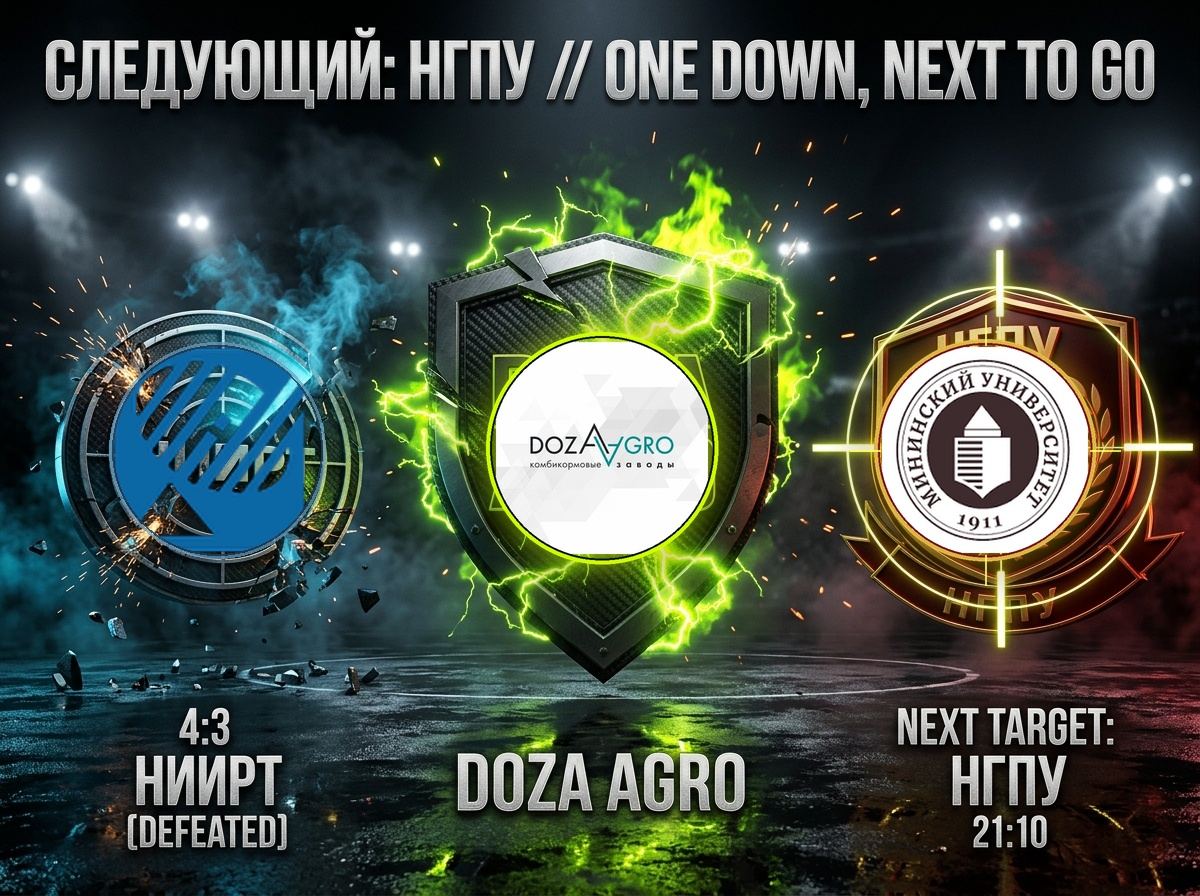
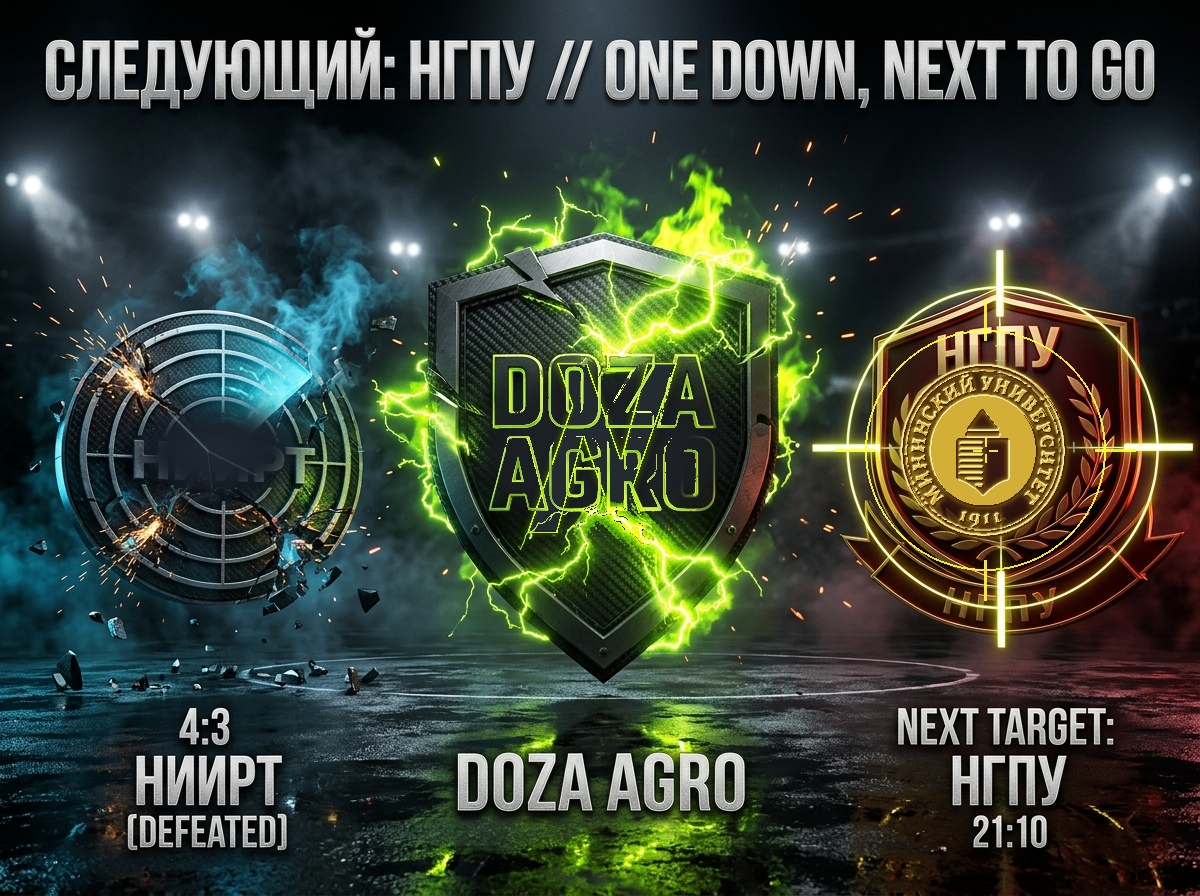
smm: replace flat circle stickers with seamless 3D integrated metallic emblems

Changed region(s): [[0.37, 0.3438, 0.6167, 0.6562], [0.7092, 0.3438, 0.925, 0.6562], [0.0925, 0.375, 0.2775, 0.625]]

diff --git a/scripts/integrate_authentic_3d_shields.py b/scripts/integrate_authentic_3d_shields.py
@@ -1,0 +1,156 @@
+import os
+from PIL import Image, ImageDraw, ImageFilter, ImageEnhance
+import numpy as np
+
+from render_3d_emblems import render_doza_monogram, render_nniirt_3d, render_ngpu_3d
+
+def run():
+    poster_path = "C:/Users/KateLis/.gemini/antigravity/brain/fa191b2b-4fe1-4d7e-8eb5-33906813e88f/doza_agro_progression_poster_1793554101241.jpg"
+    base = Image.open(poster_path).convert("RGBA")
+    W, H = base.size
+    print(f"Base poster: {W}x{H}")
+
+    # =========================================================================
+    # 1. CENTER SHIELD: DOZA AGRO (Integrated 3D Monogram)
+    # Center: (602, 448)
+    # =========================================================================
+    doza_cx, doza_cy = 602, 448
+    
+    # First: Clean out the generic outline text "DOZA AGRO" from the carbon shield
+    # We do this by sampling the carbon fiber texture surrounding it
+    carbon_patch = Image.new("RGBA", (280, 200), (20, 25, 30, 255))
+    # Fill carbon_patch with a subtle radial gradient matching the shield body
+    cp_draw = ImageDraw.Draw(carbon_patch)
+    for r in range(140, 0, -2):
+        shade = int(22 + (140 - r) * 0.1)
+        cp_draw.ellipse((140 - r, 100 - int(r*0.7), 140 + r, 100 + int(r*0.7)), fill=(shade, shade + 4, shade + 8, 255))
+        
+    # Soft mask for carbon patch so it blends into the shield without hard seams
+    patch_mask = Image.new("L", (280, 200), 0)
+    pm_draw = ImageDraw.Draw(patch_mask)
+    pm_draw.ellipse((20, 15, 260, 185), fill=255)
+    patch_mask = patch_mask.filter(ImageFilter.GaussianBlur(15))
+    
+    # Save original lightning region to re-apply in front
+    # Bright green lightning pixels around center:
+    base_arr = np.array(base)
+    # Green lightning has high G, low B relative to G
+    green_mask = (base_arr[:,:,1] > 140) & (base_arr[:,:,1] > base_arr[:,:,0] + 30) & (base_arr[:,:,1] > base_arr[:,:,2] + 40)
+    lightning_alpha = np.zeros((H, W), dtype=np.uint8)
+    lightning_alpha[green_mask] = 255
+    lightning_layer = Image.new("RGBA", (W, H), (0, 0, 0, 0))
+    lightning_layer.paste(base, (0, 0), Image.fromarray(lightning_alpha))
+    
+    # Apply soft carbon patch to cleanly erase the generic text
+    base.paste(carbon_patch, (doza_cx - 140, doza_cy - 100), patch_mask)
+    
+    # Render the authentic 3D metallic monogram (size 220)
+    mono_size = 230
+    doza_3d = render_doza_monogram(size=mono_size)
+    
+    # Subtle drop shadow behind monogram onto carbon fiber
+    shadow = Image.new("RGBA", (mono_size + 20, mono_size + 20), (0, 0, 0, 0))
+    s_draw = ImageDraw.Draw(shadow)
+    mono_alpha = doza_3d.split()[-1].filter(ImageFilter.GaussianBlur(8))
+    shadow.paste((0, 0, 0, 180), (10, 14), mono_alpha)
+    
+    base.alpha_composite(shadow, (doza_cx - mono_size//2 - 10, doza_cy - mono_size//2 - 10))
+    base.alpha_composite(doza_3d, (doza_cx - mono_size//2, doza_cy - mono_size//2))
+    
+    # Re-composite the electric lightning arcing in front of the monogram!
+    base.alpha_composite(lightning_layer, (0, 0))
+
+    # =========================================================================
+    # 2. LEFT SHIELD: НИИРТ (Integrated 3D Radar Wave Emblem)
+    # Center: (217, 450)
+    # =========================================================================
+    niirt_cx, niirt_cy = 217, 450
+    
+    # Clean the generic "НИИРТ" text from the center of the radar dish
+    dish_patch = Image.new("RGBA", (190, 110), (18, 30, 42, 255))
+    dp_draw = ImageDraw.Draw(dish_patch)
+    for r in range(95, 0, -2):
+        shade = int(18 + (95 - r) * 0.15)
+        dp_draw.ellipse((95 - r, 55 - int(r*0.6), 95 + r, 55 + int(r*0.6)), fill=(shade, shade + 8, shade + 18, 255))
+        
+    dish_mask = Image.new("L", (190, 110), 0)
+    dm_draw = ImageDraw.Draw(dish_mask)
+    dm_draw.ellipse((15, 10, 175, 100), fill=255)
+    dish_mask = dish_mask.filter(ImageFilter.GaussianBlur(12))
+    
+    base.paste(dish_patch, (niirt_cx - 95, niirt_cy - 55), dish_mask)
+    
+    # Render authentic 3D NNIIRT radar symbol (size 170)
+    niirt_size = 175
+    niirt_3d = render_nniirt_3d(size=niirt_size)
+    
+    # Overlay onto metallic radar dish
+    base.alpha_composite(niirt_3d, (niirt_cx - niirt_size//2, niirt_cy - niirt_size//2))
+    
+    # Add subtle crack overlay across NIIRT to preserve the battle-damaged defeat story (4:3)
+    crack_overlay = Image.new("RGBA", (W, H), (0, 0, 0, 0))
+    co_draw = ImageDraw.Draw(crack_overlay)
+    # Fine electric/fracture lines
+    co_draw.line([(niirt_cx - 50, niirt_cy - 40), (niirt_cx - 10, niirt_cy), (niirt_cx + 40, niirt_cy + 25)], fill=(200, 240, 255, 160), width=2)
+    co_draw.line([(niirt_cx - 10, niirt_cy), (niirt_cx - 5, niirt_cy + 45)], fill=(200, 240, 255, 140), width=1)
+    crack_overlay = crack_overlay.filter(ImageFilter.GaussianBlur(1))
+    base = Image.alpha_composite(base, crack_overlay)
+
+    # =========================================================================
+    # 3. RIGHT SHIELD: НГПУ (Integrated 3D Burnished Gold Seal)
+    # Center: (985, 450)
+    # =========================================================================
+    ngpu_cx, ngpu_cy = 985, 450
+    
+    # Clean the generic torch/laurel from center of bronze shield
+    bronze_patch = Image.new("RGBA", (210, 210), (35, 15, 15, 255))
+    bp_draw = ImageDraw.Draw(bronze_patch)
+    for r in range(105, 0, -2):
+        s_r = int(35 + (105 - r) * 0.25)
+        s_g = int(15 + (105 - r) * 0.1)
+        s_b = int(12 + (105 - r) * 0.08)
+        bp_draw.ellipse((105 - r, 105 - r, 105 + r, 105 + r), fill=(s_r, s_g, s_b, 255))
+        
+    b_mask = Image.new("L", (210, 210), 0)
+    bm_draw = ImageDraw.Draw(b_mask)
+    bm_draw.ellipse((20, 20, 190, 190), fill=255)
+    b_mask = b_mask.filter(ImageFilter.GaussianBlur(15))
+    
+    base.paste(bronze_patch, (ngpu_cx - 105, ngpu_cy - 105), b_mask)
+    
+    # Render authentic 3D Minin University seal in burnished gold (size 195)
+    ngpu_size = 195
+    ngpu_3d = render_ngpu_3d(size=ngpu_size)
+    
+    base.alpha_composite(ngpu_3d, (ngpu_cx - ngpu_size//2, ngpu_cy - ngpu_size//2))
+    
+    # Draw laser HUD crosshairs passing over NGPU (clean sharp yellow lines)
+    hud_overlay = Image.new("RGBA", (W, H), (0, 0, 0, 0))
+    h_draw = ImageDraw.Draw(hud_overlay)
+    
+    cross_col = (255, 255, 60, 230)
+    cross_glow = (255, 240, 40, 100)
+    
+    # HUD crosshair circle
+    h_draw.ellipse((ngpu_cx - 120, ngpu_cy - 120, ngpu_cx + 120, ngpu_cy + 120), outline=cross_col, width=2)
+    # HUD tick lines
+    h_draw.line([(ngpu_cx - 150, ngpu_cy), (ngpu_cx - 110, ngpu_cy)], fill=cross_col, width=3)
+    h_draw.line([(ngpu_cx + 110, ngpu_cy), (ngpu_cx + 150, ngpu_cy)], fill=cross_col, width=3)
+    h_draw.line([(ngpu_cx, ngpu_cy - 150), (ngpu_cx, ngpu_cy - 110)], fill=cross_col, width=3)
+    h_draw.line([(ngpu_cx, ngpu_cy + 110), (ngpu_cx, ngpu_cy + 150)], fill=cross_col, width=3)
+    
+    # Center reticle pip
+    h_draw.line([(ngpu_cx - 12, ngpu_cy), (ngpu_cx - 4, ngpu_cy)], fill=cross_col, width=2)
+    h_draw.line([(ngpu_cx + 4, ngpu_cy), (ngpu_cx + 12, ngpu_cy)], fill=cross_col, width=2)
+    h_draw.line([(ngpu_cx, ngpu_cy - 12), (ngpu_cx, ngpu_cy - 4)], fill=cross_col, width=2)
+    h_draw.line([(ngpu_cx, ngpu_cy + 4), (ngpu_cx, ngpu_cy + 12)], fill=cross_col, width=2)
+    
+    base = Image.alpha_composite(base, hud_overlay)
+
+    # Save final seamless poster
+    out_path = "smm/media/2026-11-01_next_target_ngpu_epic_real_shields.jpg"
+    base.convert("RGB").save(out_path, quality=96)
+    print("Successfully generated seamless 3D integrated poster:", out_path)
+
+if __name__ == "__main__":
+    run()

diff --git a/scripts/render_3d_emblems.py b/scripts/render_3d_emblems.py
@@ -1,0 +1,195 @@
+import os
+from PIL import Image, ImageDraw, ImageFilter, ImageEnhance, ImageOps
+import numpy as np
+
+def create_metallic_relief(mask_img, base_color=(200, 200, 200), highlight_color=(255, 255, 255), shadow_color=(30, 30, 30), depth=2):
+    # mask_img is RGBA where alpha is the shape
+    alpha = np.array(mask_img.split()[-1], dtype=float) / 255.0
+    
+    # Generate bevel / 3D relief using directional gradient
+    # light comes from top-left (dx, dy)
+    dx = np.roll(alpha, 1, axis=1) - np.roll(alpha, -1, axis=1)
+    dy = np.roll(alpha, 1, axis=0) - np.roll(alpha, -1, axis=0)
+    
+    # Top-left light direction: (-0.5, -0.7)
+    light = -0.5 * dx - 0.7 * dy
+    light = np.clip(light * depth * 3.0, -1.0, 1.0)
+    
+    h, w = alpha.shape
+    res = np.zeros((h, w, 4), dtype=np.uint8)
+    
+    # Calculate color per pixel
+    for i in range(3):
+        c_base = base_color[i]
+        c_high = highlight_color[i]
+        c_shad = shadow_color[i]
+        
+        # Where light > 0: blend towards highlight
+        col = np.where(light > 0, 
+                       c_base + (c_high - c_base) * light,
+                       c_base + (c_base - c_shad) * light)
+        res[:,:,i] = np.clip(col, 0, 255).astype(np.uint8)
+        
+    res[:,:,3] = (alpha * 255).astype(np.uint8)
+    return Image.fromarray(res)
+
+def render_doza_monogram(size=300):
+    # Size 300x300
+    # The Doza Agro monogram consists of:
+    # 1. An upward-pointing chevron 'A' (dark titanium with neon volt glow)
+    # 2. An inverted chevron / triangle 'V' interlaced (neon volt / teal with metallic edge)
+    canvas = Image.new("RGBA", (size, size), (0, 0, 0, 0))
+    draw = ImageDraw.Draw(canvas)
+    
+    cx, cy = size // 2, size // 2
+    
+    # Chevron dimensions
+    w_half = 75
+    h_half = 95
+    th = 26 # stroke thickness
+    
+    # Upward Chevron 'A' (Left & apex)
+    # Points: Apex top (cx - 20, cy - h_half), Bottom-left (cx - w_half - 20, cy + h_half), etc.
+    # Let's draw precise polygons for the sharp geometric interlocking chevrons
+    
+    # Chevron 1 (Upward, A): Apex at (cx - 15, cy - 80)
+    p_up_out = [
+        (cx - 15, cy - 85),
+        (cx + 45, cy + 85),
+        (cx + 15, cy + 85),
+        (cx - 15, cy - 25),
+        (cx - 45, cy + 85),
+        (cx - 75, cy + 85)
+    ]
+    
+    # Chevron 2 (Downward, V / D): Apex at (cx + 15, cy + 85)
+    p_down_out = [
+        (cx + 15, cy + 85),
+        (cx - 45, cy - 85),
+        (cx - 15, cy - 85),
+        (cx + 15, cy + 25),
+        (cx + 45, cy - 85),
+        (cx + 75, cy - 85)
+    ]
+    
+    # Draw chevrons on high-res mask (scale 4x for extreme crispness)
+    scale = 4
+    mask_hr = Image.new("L", (size * scale, size * scale), 0)
+    d_hr = ImageDraw.Draw(mask_hr)
+    
+    def scale_poly(pts):
+        return [(x * scale, y * scale) for (x, y) in pts]
+        
+    d_hr.polygon(scale_poly(p_up_out), fill=255)
+    d_hr.polygon(scale_poly(p_down_out), fill=255)
+    
+    mask = mask_hr.resize((size, size), Image.Resampling.LANCZOS)
+    
+    # Create 3D metallic titanium relief for the monogram
+    # Base: dark carbon-titanium (45, 55, 60), Highlight: (230, 255, 220), Shadow: (10, 15, 20)
+    mono_img = Image.new("RGBA", (size, size), (0, 0, 0, 0))
+    mono_img.putalpha(mask)
+    
+    relief = create_metallic_relief(mono_img, base_color=(35, 42, 48), highlight_color=(200, 255, 120), shadow_color=(10, 14, 18), depth=3)
+    
+    # Draw vibrant Neon Volt glowing border along the outer edges of the chevrons
+    edge = mask.filter(ImageFilter.FIND_EDGES)
+    edge_glow = edge.filter(ImageFilter.GaussianBlur(3))
+    
+    glow_arr = np.array(edge_glow)
+    glow_rgba = np.zeros((size, size, 4), dtype=np.uint8)
+    glow_rgba[:,:,0] = 204 # Neon Volt R
+    glow_rgba[:,:,1] = 255 # Neon Volt G
+    glow_rgba[:,:,2] = 0   # Neon Volt B
+    glow_rgba[:,:,3] = (glow_arr * 0.9).astype(np.uint8)
+    
+    glow_layer = Image.fromarray(glow_rgba)
+    
+    # Composite relief with neon glow edges
+    final_mono = Image.alpha_composite(glow_layer, relief)
+    
+    # Add crisp 1px neon highlight on edges
+    crisp_edge = edge.point(lambda p: 255 if p > 80 else 0)
+    edge_rgba = np.zeros((size, size, 4), dtype=np.uint8)
+    edge_rgba[:,:,0] = 204
+    edge_rgba[:,:,1] = 255
+    edge_rgba[:,:,2] = 0
+    edge_rgba[:,:,3] = np.array(crisp_edge)
+    final_mono = Image.alpha_composite(final_mono, Image.fromarray(edge_rgba))
+    
+    return final_mono
+
+def render_nniirt_3d(size=260):
+    # Load authentic nniirt icon
+    src = Image.open("smm/media/nniirt_icon.png").convert("RGBA")
+    
+    # Resize src
+    src = src.resize((size, size), Image.Resampling.LANCZOS)
+    arr = np.array(src)
+    
+    # White radar arcs are where pixels are bright
+    r, g, b, a = arr[:,:,0], arr[:,:,1], arr[:,:,2], arr[:,:,3]
+    brightness = (r.astype(float) + g.astype(float) + b.astype(float)) / 3.0
+    
+    # Extract radar lines
+    radar_mask = (brightness > 130) & (a > 100)
+    mask_im = Image.fromarray((radar_mask * 255).astype(np.uint8))
+    
+    # Create 3D metallic relief for the radar arcs
+    # Base: bright steel (180, 210, 235), Highlight: pure white cyan (220, 245, 255), Shadow: (20, 45, 70)
+    line_img = Image.new("RGBA", (size, size), (0, 0, 0, 0))
+    line_img.putalpha(mask_im)
+    
+    relief = create_metallic_relief(line_img, base_color=(160, 200, 235), highlight_color=(235, 250, 255), shadow_color=(15, 35, 60), depth=2)
+    
+    # Add cyan electric glow
+    edge = mask_im.filter(ImageFilter.GaussianBlur(4))
+    glow_arr = np.array(edge)
+    glow_rgba = np.zeros((size, size, 4), dtype=np.uint8)
+    glow_rgba[:,:,0] = 0
+    glow_rgba[:,:,1] = 200
+    glow_rgba[:,:,2] = 255
+    glow_rgba[:,:,3] = (glow_arr * 0.7).astype(np.uint8)
+    glow_layer = Image.fromarray(glow_rgba)
+    
+    res = Image.alpha_composite(glow_layer, relief)
+    return res
+
+def render_ngpu_3d(size=250):
+    src = Image.open("img/shields/ngpu_minina.png").convert("RGBA")
+    src = src.resize((size, size), Image.Resampling.LANCZOS)
+    arr = np.array(src)
+    
+    # In ngpu_minina.png: dark pixels are the seal lines
+    r, g, b = arr[:,:,0], arr[:,:,1], arr[:,:,2]
+    brightness = (r.astype(float) + g.astype(float) + b.astype(float)) / 3.0
+    
+    # Invert so seal lines are positive mask
+    seal_mask = (brightness < 170)
+    mask_im = Image.fromarray((seal_mask * 255).astype(np.uint8))
+    
+    # Smooth edges
+    mask_im = mask_im.filter(ImageFilter.GaussianBlur(1))
+    mask_im = mask_im.point(lambda p: 255 if p > 100 else (p * 2.5))
+    
+    line_img = Image.new("RGBA", (size, size), (0, 0, 0, 0))
+    line_img.putalpha(mask_im)
+    
+    # 3D burnished gold relief
+    # Base gold: (212, 175, 55), Highlight: (255, 235, 150), Shadow: (70, 40, 10)
+    relief = create_metallic_relief(line_img, base_color=(212, 175, 55), highlight_color=(255, 240, 170), shadow_color=(70, 35, 10), depth=3)
+    
+    # Golden glow
+    edge = mask_im.filter(ImageFilter.GaussianBlur(3))
+    glow_arr = np.array(edge)
+    glow_rgba = np.zeros((size, size, 4), dtype=np.uint8)
+    glow_rgba[:,:,0] = 255
+    glow_rgba[:,:,1] = 215
+    glow_rgba[:,:,2] = 0
+    glow_rgba[:,:,3] = (glow_arr * 0.6).astype(np.uint8)
+    glow_layer = Image.fromarray(glow_rgba)
+    
+    res = Image.alpha_composite(glow_layer, relief)
+    return res
+
+print("3D Renderers configured")

diff --git a/scripts/composite_real_shields_on_poster.py b/scripts/composite_real_shields_on_poster.py
@@ -192,3 +192,4 @@ def process_poster():
 
 if __name__ == "__main__":
     process_poster()
+
